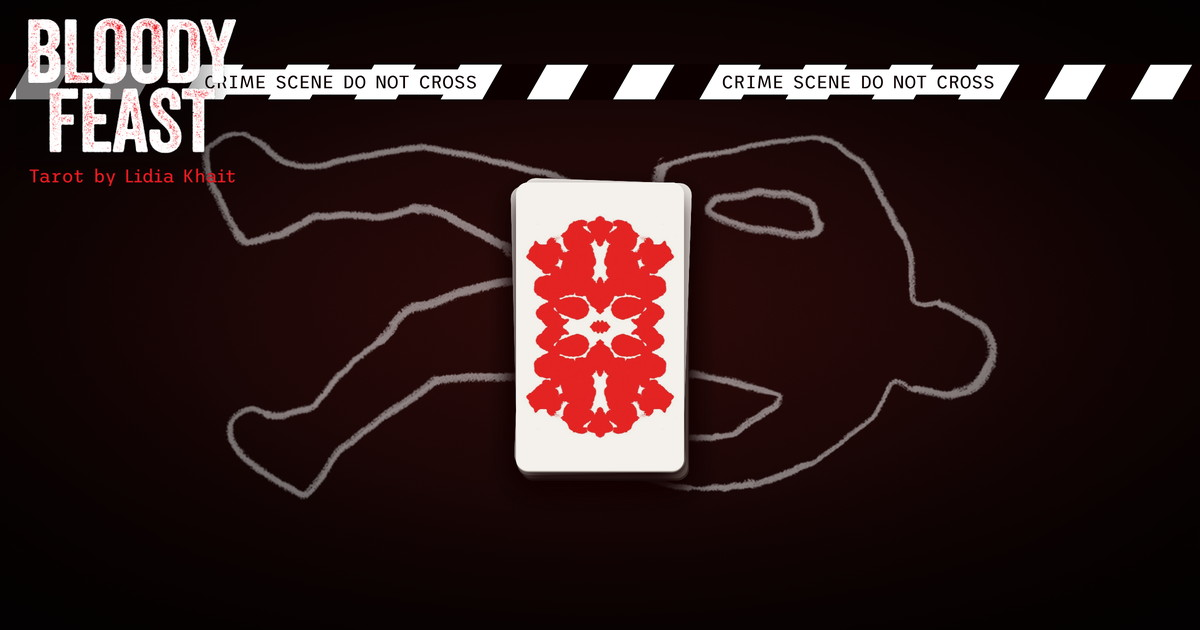
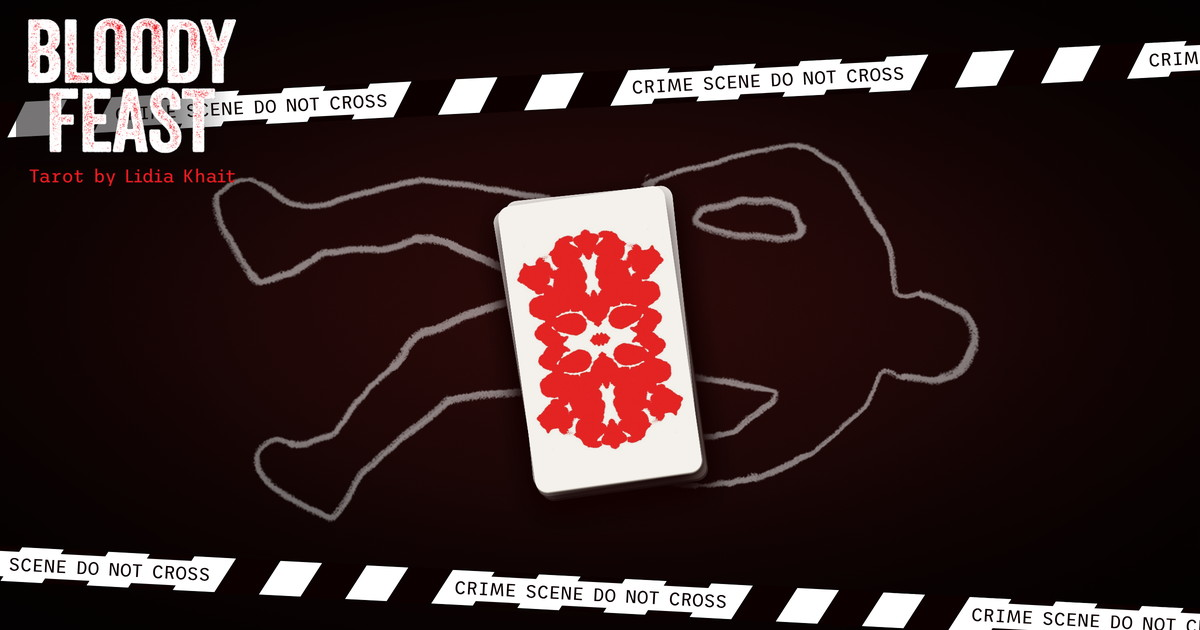
Cursor: tilt the crime-scene frame and lean the deck in the link preview.

Changed region(s): [[0.0, 0.0905, 0.8325, 0.8444], [0.0, 0.8746, 1.0, 1.0], [0.4317, 0.0603, 1.0, 0.181]]

diff --git a/index.html b/index.html
@@ -13,7 +13,7 @@
 <meta property="og:url" content="https://lidkin.github.io/bloody-tarot/">
 <meta property="og:title" content="Bloody Feast Tarot — хочешь знать?">
 <meta property="og:description" content="Карта дня и расклад на три карты из колоды Лидии Хаит. Card of the day and a three-card spread.">
-<meta property="og:image" content="https://lidkin.github.io/bloody-tarot/og-image.jpg?v=5">
+<meta property="og:image" content="https://lidkin.github.io/bloody-tarot/og-image.jpg?v=6">
 <meta property="og:image:width" content="1200">
 <meta property="og:image:height" content="630">
 <meta name="twitter:card" content="summary_large_image">
